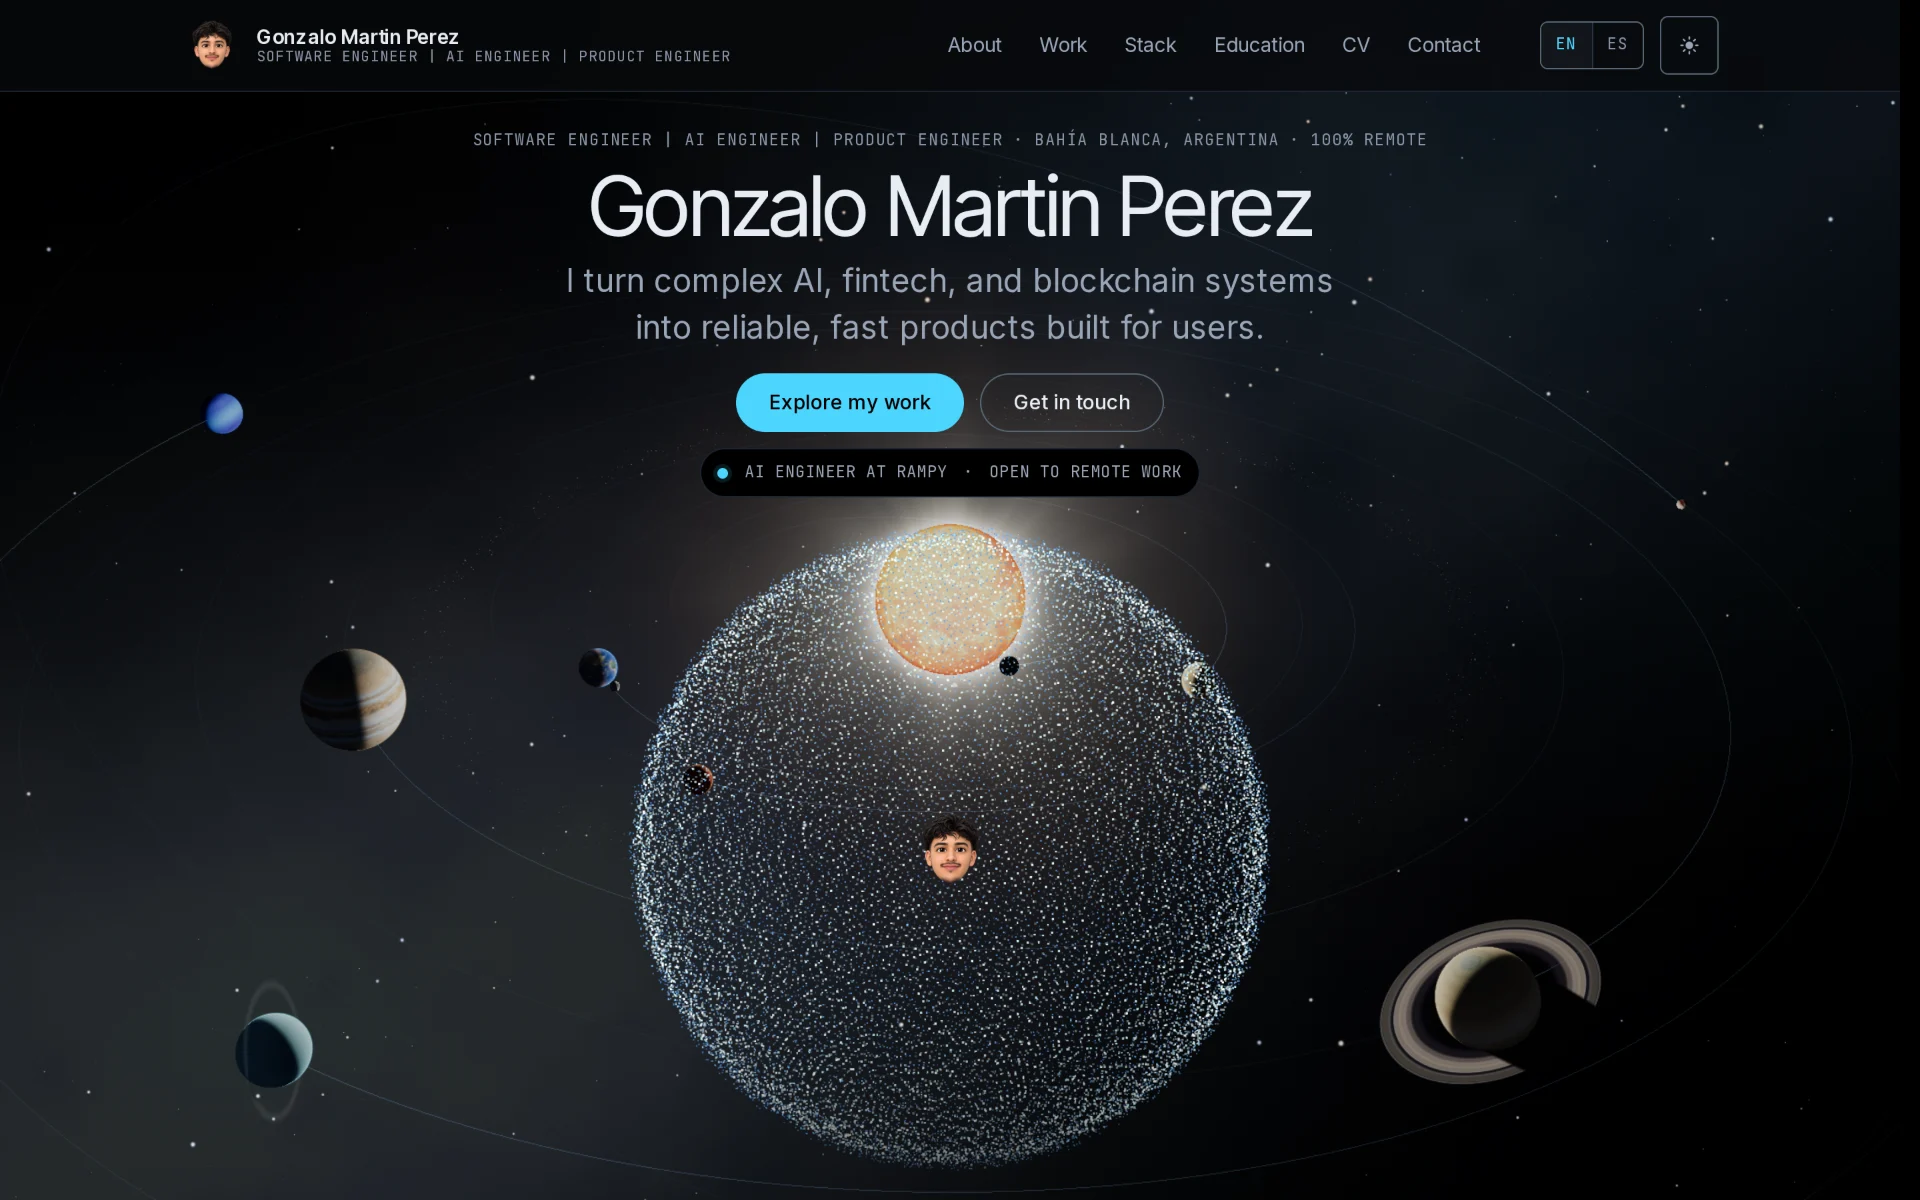
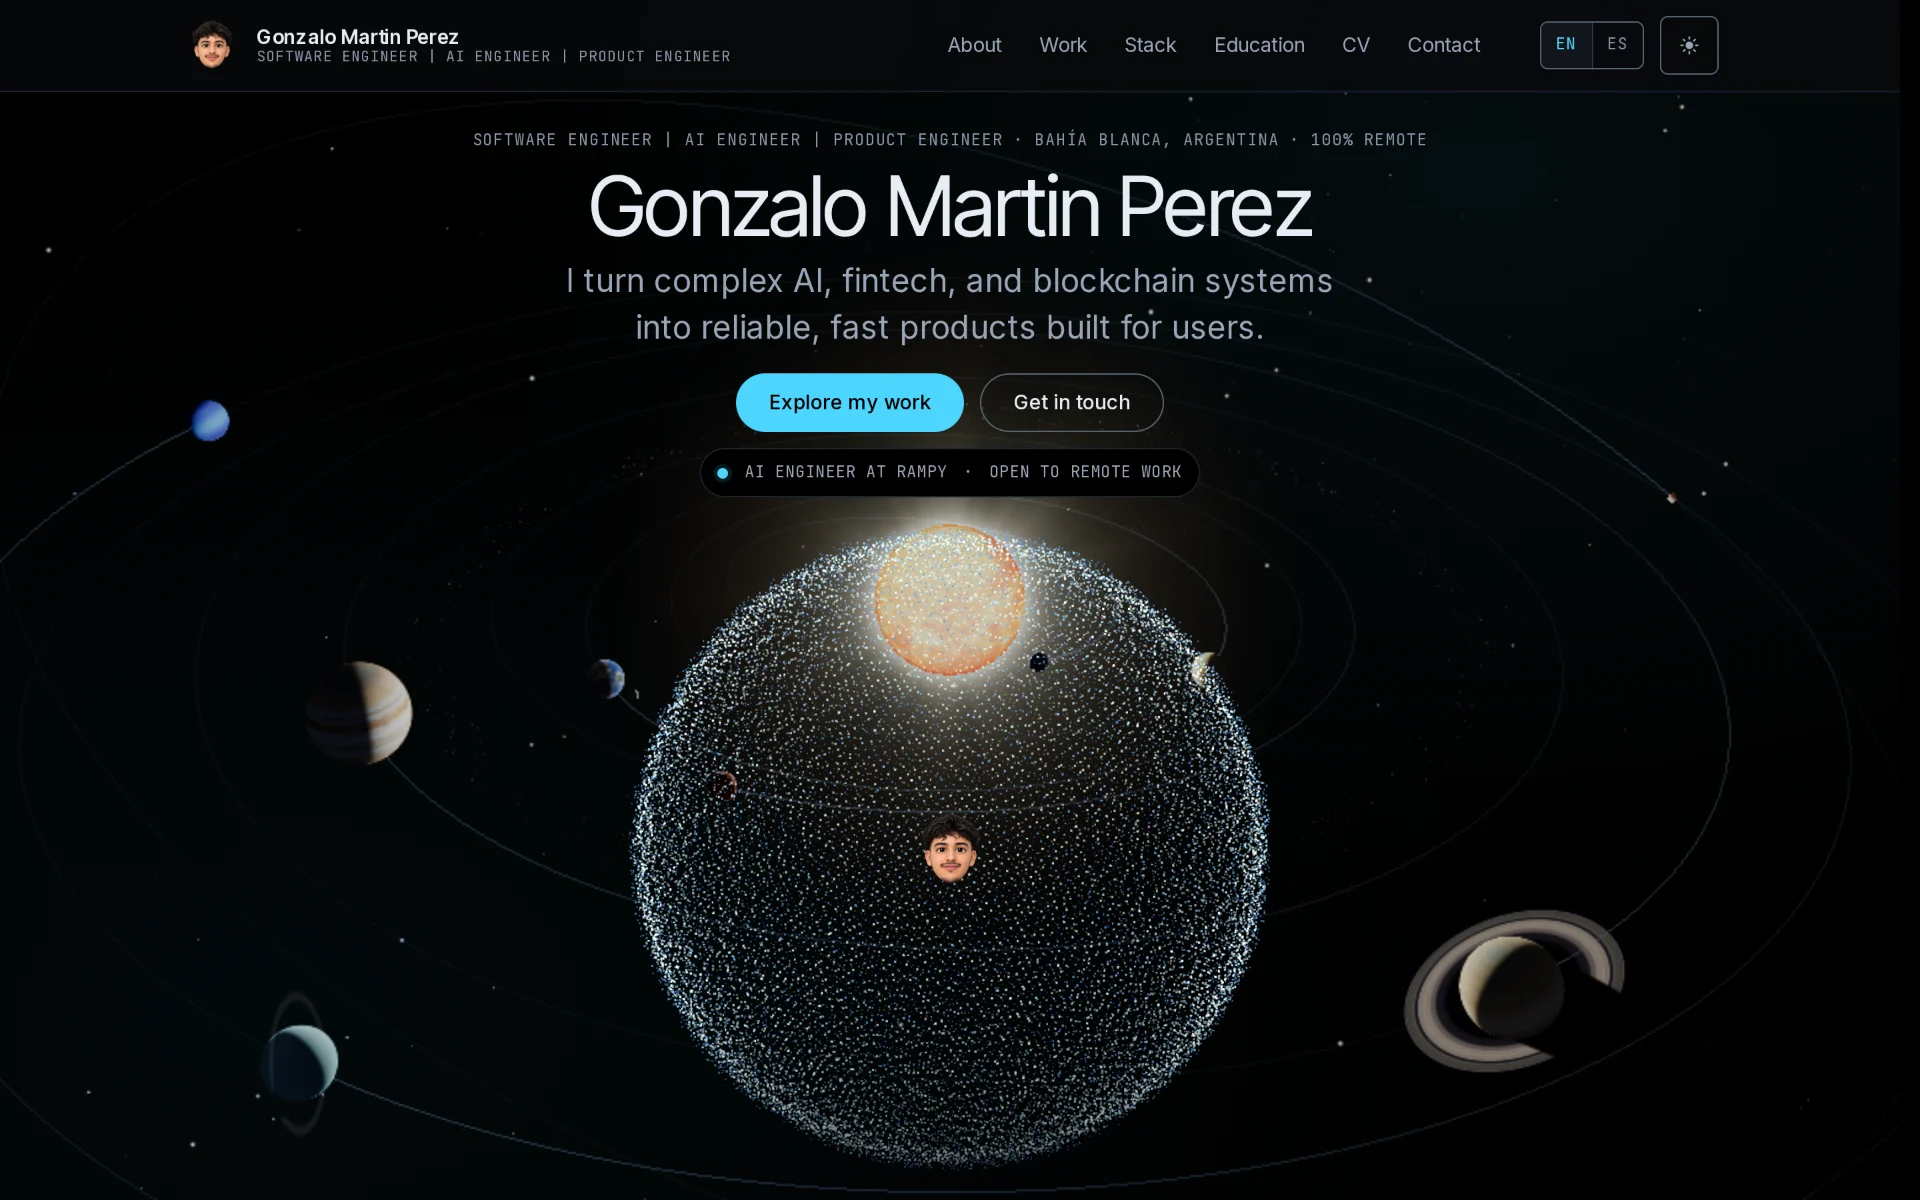
docs: refresh the README gallery for the hero fly-through and explorer dock
Recaptures all shots from the current develop build and adds the sphere
fly-through. The README describes the hero depth and settle wave, the
explorer dock, and the size-matched texture delivery with its measured
transfer.

Changed region(s): [[0.0, 0.2158, 0.6562, 1.0], [0.7188, 0.74, 0.8438, 0.925], [0.0938, 0.3083, 0.125, 0.37]]

diff --git a/README.md b/README.md
@@ -31,7 +31,7 @@ reviewed CVs, a focused technology catalog and a realistic, readable 3D solar sc
 | --- | --- |
 | **Production evidence** | Eight routes in English and Spanish: experience, the Filomena case study, education, a typed technology catalog and a self-contained CV with reviewed PDF downloads. |
 | **Interactive architecture** | React Flow diagrams with keyboard-accessible detail panels explain the systems behind each role. |
-| **Hero identity** | A lazy Three.js particle sphere and GSAP native-scroll choreography that settles into the technology toolkit. |
+| **Hero identity** | A lazy Three.js particle sphere with perspective depth and rim light; the camera flies through it and the logos settle into the toolkit as a staggered wave. |
 | **Solar scene** | A single-pass Three.js renderer with physically motivated shaders, a baked Milky Way and a reading mask that keeps text contrast on every page. |
 | **Engineered quality** | Strict TypeScript, Biome, budgets, rendered checks and eight duration-balanced Playwright groups gate every pull request. |
 | **Reviewed delivery** | Task branch → `develop` → `main` through protected pull requests; native Hostinger deployment from `main`. |
@@ -43,7 +43,10 @@ mobile) on a hardware GPU. The scene animates continuously; these are single fra
 
 <table>
   <tr>
-    <td width="50%"><img src="docs/gallery/home-toolkit-dark.webp" alt="Home technology toolkit settled into a labeled grid over the receding solar scene"><br><sub><b>Home · technology toolkit.</b> The hero sphere settles into a labeled grid; the scene recedes behind it.</sub></td>
+    <td colspan="2"><img src="docs/gallery/home-flythrough-dark.webp" alt="The camera flying through the particle sphere toward the Sun, with near points growing into soft sprites over the solar system"><br><sub><b>Home · fly-through.</b> Scrolling carries the camera through the sphere; near points gain real parallax before the toolkit settles.</sub></td>
+  </tr>
+  <tr>
+    <td width="50%"><img src="docs/gallery/home-toolkit-dark.webp" alt="Home technology toolkit settled into a labeled grid over the receding solar scene"><br><sub><b>Home · technology toolkit.</b> Logos settle into a labeled grid as a wave; the scene recedes behind it.</sub></td>
     <td width="50%"><img src="docs/gallery/home-featured-project-dark.webp" alt="Featured Filomena project card with product screenshots, technologies and production metrics"><br><sub><b>Home · featured project.</b> Product screenshots, stack and production outcomes.</sub></td>
   </tr>
   <tr>
@@ -65,6 +68,9 @@ mobile) on a hardware GPU. The scene animates continuously; these are single fra
 </table>
 
 ### Solar explorer
+
+A glass dock steps through every body, zooms, rotates and resets; the caption names and
+classifies the current selection.
 
 <table>
   <tr>
@@ -133,7 +139,7 @@ The portfolio has no application database or model-provider key. Reviewed conten
 ```mermaid
 flowchart LR
     SSR["Server-rendered fallback<br/>Same camera and orbits · CSS terminators"]
-    LOAD["Deferred engine<br/>Off-main-thread texture decode"]
+    LOAD["Deferred engine<br/>Size-matched map variants · Off-main-thread decode"]
     PREP["Before the first frame<br/>Upload maps · Compile programs · Place bodies"]
     MASK["Reading mask<br/>Cached text blocks · Quarter resolution"]
     PASS["Single render pass<br/>Bodies · Corona · Stars · Belts · Milky Way"]
@@ -152,7 +158,10 @@ Custom shaders give airless bodies Lommel–Seeliger photometry, gas giants limb
 Earth its oceans, clouds and night lights, and Saturn's rings shadows in both directions.
 Bright bodies recede behind reading text so it keeps WCAG contrast, enforced by a browser
 test. Reduced motion, missing WebGL, texture failure and context loss keep the complete
-static scene; hidden tabs suspend rendering. See the
+static scene; hidden tabs suspend rendering. Each view downloads the smallest map variant
+that covers it, full-resolution maps load only when the explorer opens, and content-hashed
+maps are cached immutably: about 2.4 MB of textures on desktop and 1.5 MB on phones, down
+from 7.2 MB. See the
 [specification](docs/specs/immersive-solar-scene.md) and its
 [verification record](docs/verification/immersive-solar-scene.md).
 
@@ -240,7 +249,7 @@ covers sphere pulses, the keyboard-accessible avatar and restrained depth on int
 | Runtime | Node.js 24 LTS and Next.js 16 Active LTS |
 | Interface | Owned shadcn/ui primitives, Tailwind utilities and CSS Modules; existing design tokens and focused client boundaries |
 | Languages | American English and neutral Latin American Spanish, backed by a shared typed copy contract |
-| Hero identity | Owner-selected caricature, lazy Three.js particle scene and GSAP native-scroll choreography |
+| Hero identity | Owner-selected caricature, lazy Three.js particle scene with perspective depth and GSAP native-scroll choreography |
 | Solar scene | Single-pass Three.js with custom GLSL, reading mask, adaptive resolution and complete static fallbacks |
 | Technology catalog | Shared typed inventory, original-color local marks and linked experience context |
 | Code quality | Biome linting and formatting, locked dependency installation |

diff --git a/docs/gallery/README.md b/docs/gallery/README.md
@@ -18,4 +18,4 @@ node scripts/capture-gallery.mjs
 profile, then has Chromium downscale them with high-quality smoothing and encode WebP at
 quality 0.86 (1920 px wide for desktop, 780 px for mobile). The hero is frozen with its
 `sceneProgress` parameter; the solar scene runs normally, so each capture is one frame of a
-continuous animation. Captured on 2026-10-12 from the `perf/immersive-solar-scene` build.
+continuous animation. Captured on 2026-10-13 from the `develop` build that became release v1.1.0.
